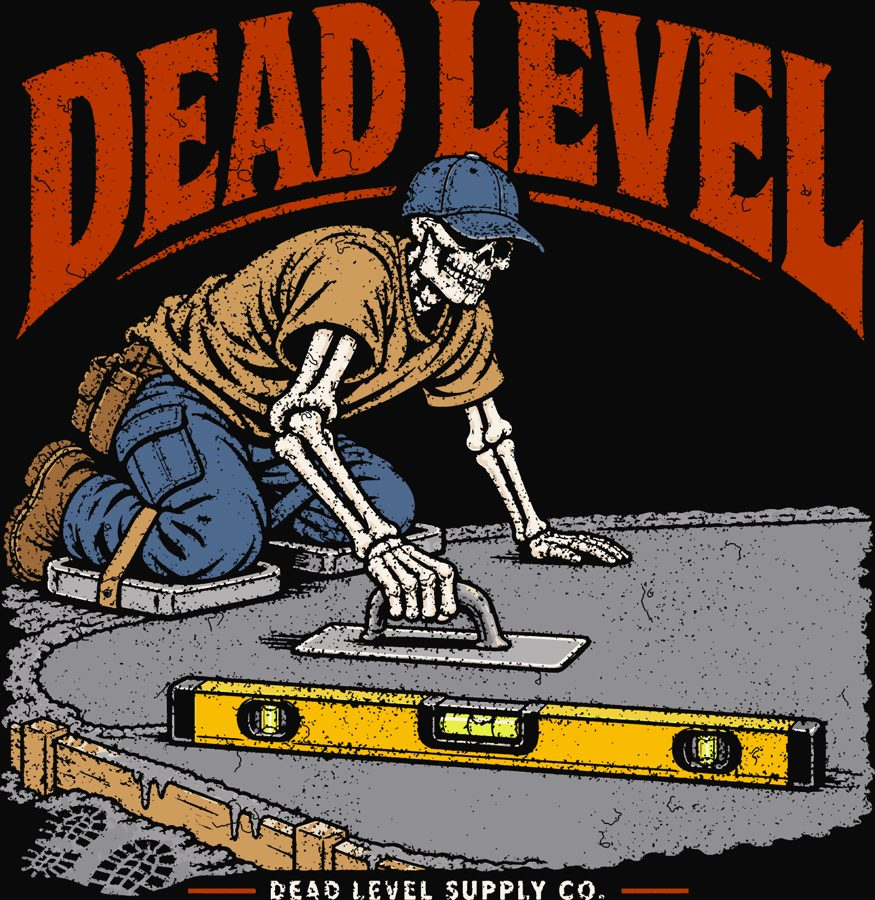
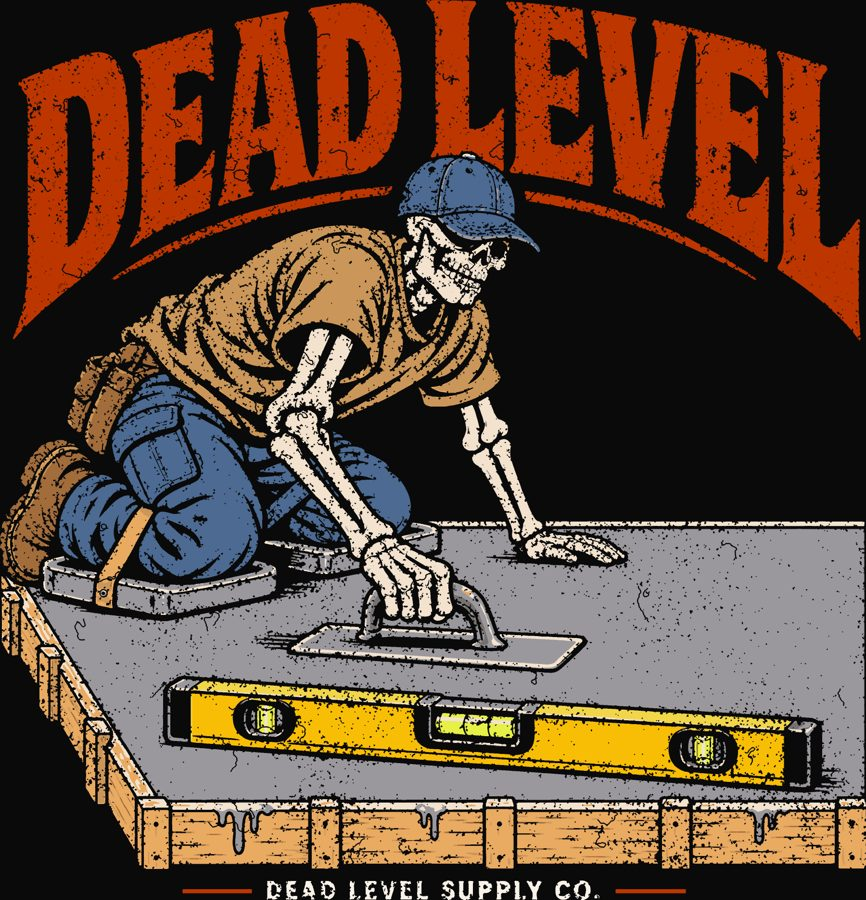
Drop 01: Dead Level with straight, square forms

Changed region(s): [[0.0, 0.0, 1.0, 1.0], [0.4988, 0.0622, 0.53, 0.0933]]

diff --git a/index.html b/index.html
@@ -160,7 +160,7 @@ const shirts = [
     who: "HVAC techs, especially in Florida and the South.", size: "12 × 13.0″" },
   { id: "dead-level", title: "Dead Level", trade: "concrete", tradeLabel: "Concrete", lane: "dark",
     joke: "Dead level is the builder's word for perfectly flat. He troweled the slab dead level, bubble dead center, and he's dead too. It's the brand name, so this is the signature shirt.",
-    who: "Concrete finishers and flatwork crews. Doubles as the brand tee for anyone.", size: "12 × 12.3″" },
+    who: "Concrete finishers and flatwork crews. Doubles as the brand tee for anyone.", size: "12 × 12.5″" },
   { id: "widowmaker", title: "Widowmaker", trade: "tree", tradeLabel: "Tree Service", lane: "dark",
     joke: "A widowmaker is a dead limb hanging overhead, the thing that kills tree guys. He's tied in and cutting a huge one right over his head, still grinning.",
     who: "Arborists and tree service climbers.", size: "12 × 12.5″" },
